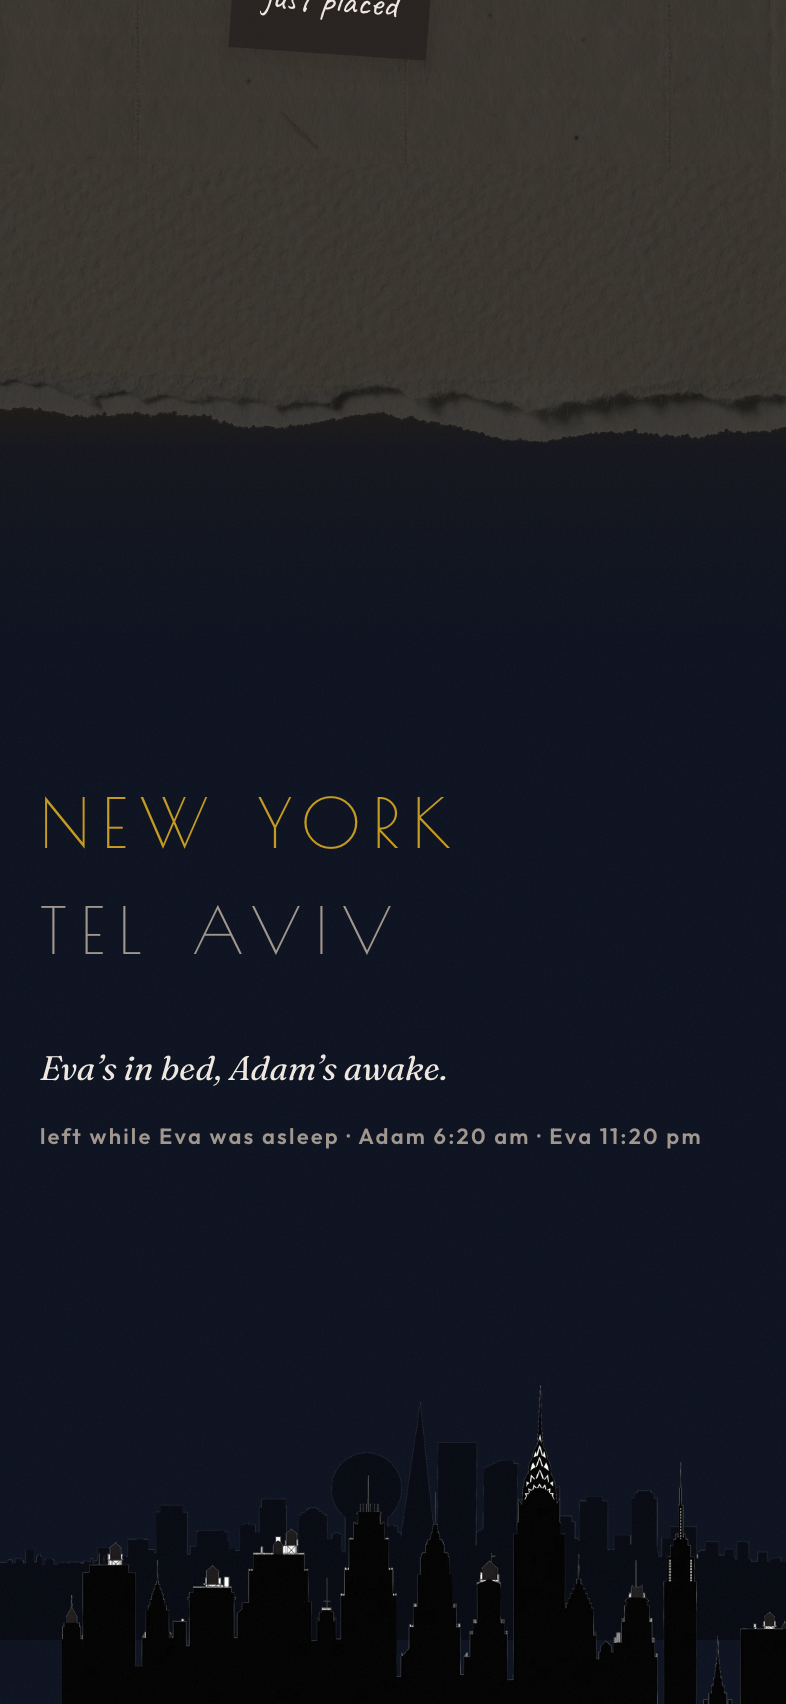
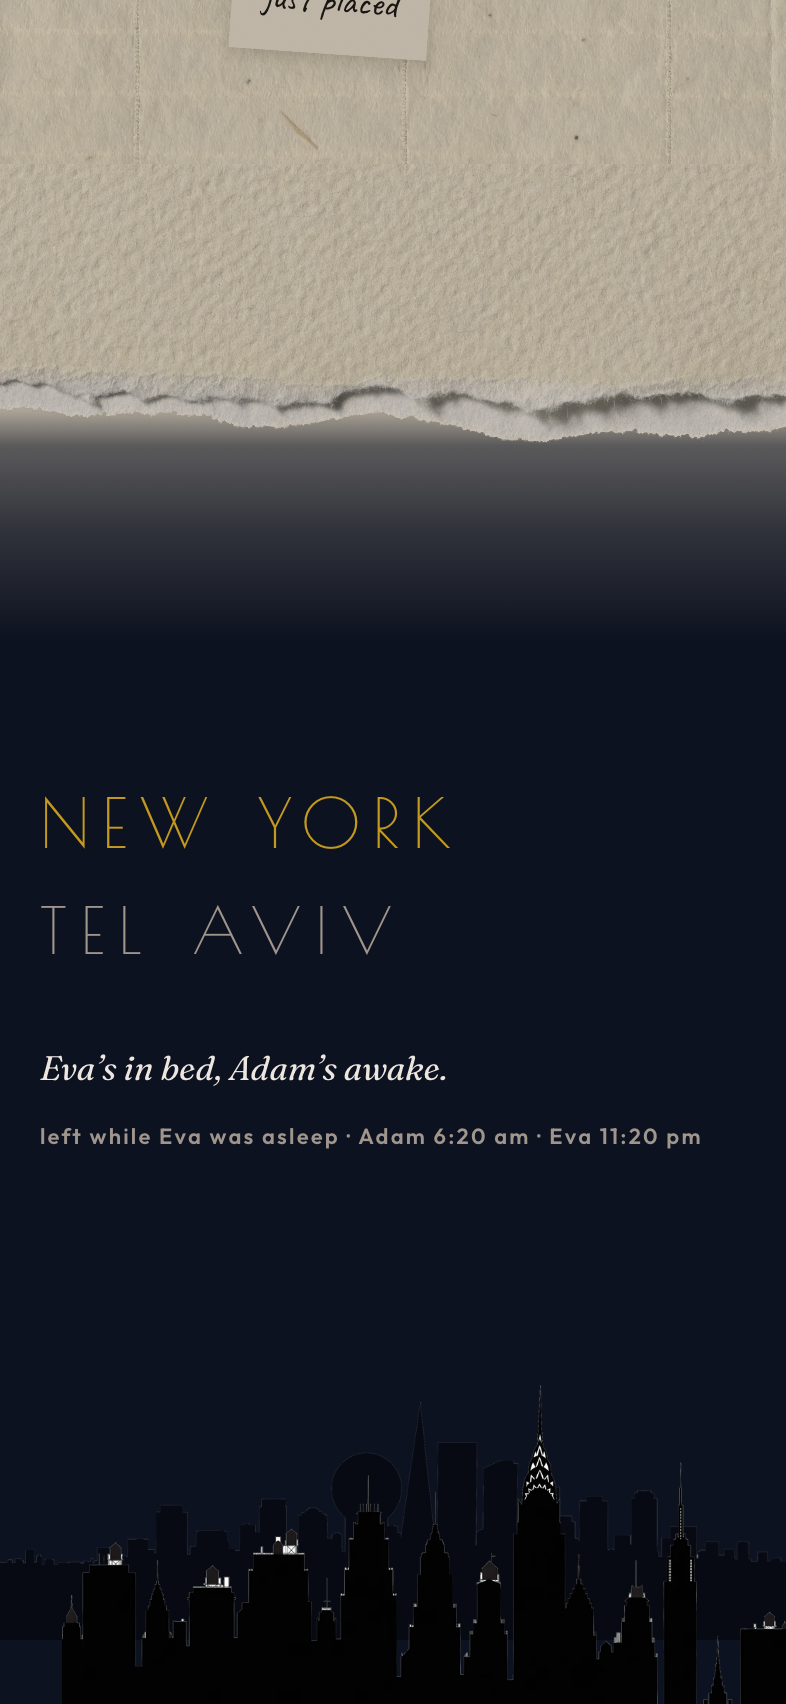
fix(tokens): night dims the paper — it no longer inverts it
D1, enforced: PAPER stays paper in both modes; only DECO carries the
dark palette. The night blocks now dim the day scale warmly (~x0.73)
with every relationship preserved — surface stays lighter than
canvas, the well stays recessed, --ink stays dark ink on lit paper.
A note at night is a dimmer white note, not a dark plate with light
text: the note and the table were obeying two different physics.

Most of the old night block is deleted rather than retuned, because
it existed to manage the inversion: lightened authorship inks, the
dimmed pill fill, black-weighted shadows, screen-blended grain, the
tile-ink and selection night doubles. Paper that stays paper
inherits :root.

.under-lamp follows to x0.73 (from 0.78) so tokens and image
materials sit under one lamp — the 0.78 was right against the old
dark baseline; the principle (one dim for the whole table) fixes
the value, not the number. The AA floor with dark ink is what
bounds the dim: ink ~8.5:1 on night surface, --mute held at 4.6:1,
--danger 4.5:1. themeColor dark follows the new night canvas.

Measured from the re-captured canonical frames:
  sanity: note 182.4 / table 172.6 — notes are the lightest thing
  on the table again (was: notes darker, inverted)
  join:   day step 0.6, sd delta 1.52 · night step 0.5, sd delta 1.17

Known consequence, deliberate: every existing surface changes its
night appearance (dock, login, echo were built against the dark
tokens). That is D1 doing what it says; their waves re-verify.

diff --git a/apps/web/app/globals.css b/apps/web/app/globals.css
@@ -234,116 +234,66 @@
 }
 
 /* ------------------------------------------------------------
-   2 · Night — the same paper, unlit.
+   2 · Night — the lamp is low, the paper is still paper.
 
-   Night is not a theme toggle and not an inverted day. w1 in
-   `library.json` — "She's in bed, he's awake", IL 05:00–09:00 /
-   NYC 22:00–02:00 — is the biggest overlap window in their week,
-   and Eva spends it in bed with the lights off. This is the
-   highest-traffic surface in the product.
+   REWRITTEN under the revised §1 and the 2026-08-04 lamp ruling.
+   The previous night was an inversion — dark canvas, dark
+   plates, light ink: "night meant dark-everything," and D1
+   killed that. PAPER stays paper in both modes; only DECO
+   sections carry the dark palette. Dark mode is the lamp going
+   low over the same table, and a white note under a dim lamp is
+   a dimmer white note — still the lightest thing on the table
+   after a photograph. It never becomes a dark plate with light
+   text: that is the note *inverting* while the paper around it
+   *dims*, two different physics on one surface, and it is
+   exactly the defect the first night capture showed.
 
-   That single fact sets every value below:
+   So the night PAPER scale is the day scale multiplied down
+   warmly (~×0.73 — the same single dim the .under-lamp material
+   curve uses), with every relationship preserved: the surface
+   stays lighter than the canvas, the well stays recessed, and
+   --ink stays dark ink on lit paper. Most of the old night
+   block is deleted rather than retuned, because it existed to
+   manage the inversion — lightened authorship inks, a dimmed
+   pill, black-weighted shadows, screen-blended grain. Paper
+   that stays paper inherits its :root values.
 
-   Warm, because the screen is the only light source in a dark
-   bedroom. #1E1A17 is hue 26° — the day canvas taken down to
-   11.8% value, not swapped for a different material. v6's
-   #140E1E was plum, which is a colour choice pretending to be a
-   dark mode.
-
-   Not black, because a true black page makes every white plate
-   on it a lightbulb. #1E1A17 keeps plates and page in the same
-   family so the contrast between them stays a paper contrast.
-
-   Wells go *darker* than the surface at night, inverting the day
-   relationship. Light comes from above; at night a recess is in
-   shadow rather than in light. It is a small thing and it is the
-   difference between a dark mode that was designed and one that
-   was generated.
-
-   And photographs are still never dimmed — so at 11pm the
-   brightest thing on Eva's screen is Adam's face. That is the
-   correct hierarchy for this window and it costs nothing to get
-   right; it only required not writing `--photo-dim`.
+   The floor on how far this dims is WCAG AA with dark ink:
+   ink carries ~8.5:1 on the night surface and --mute is held at
+   ≥4.5:1. Darker than this and text fails before atmosphere is
+   gained — the true dark of night belongs to the DECO window,
+   which is precisely what makes it read as a window. And
+   photographs are still never dimmed: at 11pm the brightest
+   thing on Eva's screen is Adam's face.
    ------------------------------------------------------------ */
 
 [data-mode="night"] {
-  --canvas: #1e1a17;
-  --surface: #272220;
-  --surface-2: #171412;
+  --canvas: #bab1a2; /* the day canvas × ~0.73, warmed */
+  --surface: #bfb6a8; /* a white note under the low lamp — still lighter than the canvas */
+  --surface-2: #b2a999; /* the recess, dimmer than both */
 
-  --ink: #ede7e0; /* 14.08:1 on canvas — warm off-white, not #fff */
-  --mute: #a0968d; /* 5.96:1 on canvas, 5.42:1 on surface */
-  --line: rgba(237, 231, 224, 0.11);
-  --on-ink: #1e1a17;
+  --mute: #48423a; /* 4.6:1 on surface — the AA floor sets this */
+  --line: rgba(37, 29, 22, 0.16);
+  --danger: #7e211d; /* 4.5:1 on the dimmed canvas */
+  --shimmer: rgba(255, 255, 255, 0.5);
 
-  /* Night is where the solid control stops being `--ink`.
-     `pill-ink` inverting to the full #EDE7E0 put the dock's send
-     button and active tab — a continuous ~150px band — at 14:1
-     against the page, on every authenticated surface, in the window
-     §2 calls the highest-traffic in the product. The brightest thing
-     on Eva's screen at 11pm was a navigation button, which is the
-     exact inversion of the hierarchy this file argues for two
-     sections earlier: the brightest thing should be Adam's face.
-
-     `tile-ink` already established this for a 140px block. Two
-     50px controls sitting next to each other are the same problem
-     wearing a different shape, so the fill comes down rather than
-     the rule being scoped by size. #C9BFB6 still carries 9.55:1
-     against its own text and reads unmistakably as the one solid
-     control — it just stops being a light source. */
-  --pill-fill: #c9bfb6;
-
-  /* The same two inks, lifted to stay legible at 2px on a dark
-     page. Hue is held exactly — 218° and 15°, unchanged — so a
-     person's mark is the same mark in both modes. Saturation
-     falls (24.6% / 32.6%) because a hue at night reads more
-     saturated than the same hue by day. Luminance parity holds:
-     0.337 and 0.325. */
-  --eva: #8d9ebb;
-  --adam: #be9080;
-
-  --danger: #ea9189; /* 7.33:1 on canvas */
-
-  --shimmer: rgba(237, 231, 224, 0.08);
-
-  --e1: 0 1px 1px rgba(0, 0, 0, 0.28), 0 3px 8px -2px rgba(0, 0, 0, 0.32);
-  --e2: 0 1px 2px rgba(0, 0, 0, 0.34), 0 10px 24px -8px rgba(0, 0, 0, 0.46);
-  --e3: 0 2px 4px rgba(0, 0, 0, 0.38), 0 24px 48px -16px rgba(0, 0, 0, 0.56);
-
-  /* Night needs it harder: the dock's surface is only 3% lighter
-     than the canvas behind it, so value alone cannot separate them
-     and the shadow is doing all of the work. */
-  --e-float: 0 1px 2px rgba(0, 0, 0, 0.44),
-    0 8px 16px -4px rgba(0, 0, 0, 0.52), 0 20px 40px -8px rgba(0, 0, 0, 0.62);
-
-  --noise-opacity: 0.028;
-
-  /* The lamp goes off — image materials dim via .under-lamp. */
+  /* The lamp goes low — image materials dim via .under-lamp by
+     the same fraction as the tokens above. Everything absent from
+     this block (--ink, the authorship inks, the pill, shadows,
+     grain) inherits :root, because paper that stays paper needs
+     no night double. */
   --lamp-dim: 1;
 }
 
 @media (prefers-color-scheme: dark) {
   :root:not([data-mode]) {
-    --canvas: #1e1a17;
-    --surface: #272220;
-    --surface-2: #171412;
-    --ink: #ede7e0;
-    --mute: #a0968d;
-    --line: rgba(237, 231, 224, 0.11);
-    --on-ink: #1e1a17;
-    --pill-fill: #c9bfb6;
-    --eva: #8d9ebb;
-    --adam: #be9080;
-    --danger: #ea9189;
-    --shimmer: rgba(237, 231, 224, 0.08);
-    --e1: 0 1px 1px rgba(0, 0, 0, 0.28), 0 3px 8px -2px rgba(0, 0, 0, 0.32);
-    --e2: 0 1px 2px rgba(0, 0, 0, 0.34), 0 10px 24px -8px rgba(0, 0, 0, 0.46);
-    --e3: 0 2px 4px rgba(0, 0, 0, 0.38), 0 24px 48px -16px rgba(0, 0, 0, 0.56);
-    --e-float: 0 1px 2px rgba(0, 0, 0, 0.44),
-      0 8px 16px -4px rgba(0, 0, 0, 0.52), 0 20px 40px -8px rgba(0, 0, 0, 0.62);
-    --noise-opacity: 0.028;
-
-    /* The lamp goes off — image materials dim via .under-lamp. */
+    --canvas: #bab1a2;
+    --surface: #bfb6a8;
+    --surface-2: #b2a999;
+    --mute: #48423a;
+    --line: rgba(37, 29, 22, 0.16);
+    --danger: #7e211d;
+    --shimmer: rgba(255, 255, 255, 0.5);
     --lamp-dim: 1;
   }
 }
@@ -446,11 +396,10 @@ body {
     color var(--dur-3) var(--ease-io);
 }
 
+/* One selection for both modes: night paper is still light paper,
+   so the dark-ink wash works everywhere. */
 ::selection {
   background: rgba(37, 29, 22, 0.12);
-}
-[data-mode="night"] ::selection {
-  background: rgba(237, 231, 224, 0.18);
 }
 
 /* With no accent colour in the system, the focus ring is ink.
@@ -703,13 +652,16 @@ textarea[aria-invalid="true"] {
    already dim through the night token swap, and .under-lamp on
    top would dim them twice. */
 @utility under-lamp {
-  /* 0.78, not the 0.87 that would match the night canvas token
-     exactly: full token parity is "lights off" and the law's night
-     is a reading room — the lamp is low, not out. The materials sit
-     a step lighter than the page canvas, which is what a lit table
-     in a dark room does. */
-  filter: brightness(calc(1 - var(--lamp-dim) * 0.78))
-    sepia(calc(var(--lamp-dim) * 0.32));
+  /* ×0.73 — the same fraction the night PAPER tokens dim by
+     (§2), so the image substrate, the seam strip and the token
+     surfaces all sit under one lamp. The history of this number:
+     0.87 (token parity with the old inverted night) was
+     lights-off; 0.78 was right against that dark baseline; under
+     D1's dim-not-invert tokens the one-dim-for-the-whole-table
+     principle lands here. If night depth changes, change §2 and
+     this together — they are the same lamp. */
+  filter: brightness(calc(1 - var(--lamp-dim) * 0.27))
+    sepia(calc(var(--lamp-dim) * 0.22));
   transition: filter var(--dur-3) var(--ease-io);
 }
 
@@ -995,24 +947,12 @@ textarea[aria-invalid="true"] {
    The grain stays, at 2.2%. It earns its place by being the only
    thing that makes a flat colour read as a material: paper is
    warm because of what it is made of, and this is the cheapest
-   honest way to say so. Multiply by day, because grain in paper
-   absorbs light; screen at night, because in a dark room the
-   grain is the light the page is scattering rather than eating.
-   ------------------------------------------------------------ */
-/* The night half of `tile-ink` — see §7. Declared here rather than
-   inside the utility because it needs the mode selector's specificity. */
-[data-mode="night"] .tile-ink {
-  background: var(--surface);
-  color: var(--ink);
-  border-color: var(--line);
-}
-@media (prefers-color-scheme: dark) {
-  :root:not([data-mode]) .tile-ink {
-    background: var(--surface);
-    color: var(--ink);
-    border-color: var(--line);
-  }
-}
+   honest way to say so. Multiply in both modes — night paper is
+   still lit paper (§2), and grain in paper absorbs light. The
+   screen-blend night variant left with the inversion it served;
+   so did the tile-ink night double, which existed so a solid ink
+   block would not become a lamp on a dark page. On dimmed light
+   paper, solid ink is simply solid ink. */
 
 .noise-layer {
   position: fixed;
@@ -1021,12 +961,4 @@ textarea[aria-invalid="true"] {
   z-index: 40;
   opacity: var(--noise-opacity);
   mix-blend-mode: multiply;
-}
-[data-mode="night"] .noise-layer {
-  mix-blend-mode: screen;
-}
-@media (prefers-color-scheme: dark) {
-  :root:not([data-mode]) .noise-layer {
-    mix-blend-mode: screen;
-  }
 }

diff --git a/apps/web/components/materials/Pinned.tsx b/apps/web/components/materials/Pinned.tsx
@@ -88,7 +88,7 @@ export function Pinned({ variant, placement, children, className }: PinnedProps)
                would override the class, so the lamp rides along here.
                Keep in sync with @utility under-lamp in globals.css. */
             filter:
-              "drop-shadow(0 2px 2px rgba(41, 32, 24, 0.3)) brightness(calc(1 - var(--lamp-dim, 0) * 0.78)) sepia(calc(var(--lamp-dim, 0) * 0.32))",
+              "drop-shadow(0 2px 2px rgba(41, 32, 24, 0.3)) brightness(calc(1 - var(--lamp-dim, 0) * 0.27)) sepia(calc(var(--lamp-dim, 0) * 0.22))",
             transition: "filter var(--dur-3) var(--ease-io)",
             ...PIN_X[placement],
           }}

diff --git a/apps/web/app/layout.tsx b/apps/web/app/layout.tsx
@@ -25,7 +25,8 @@ export const viewport: Viewport = {
   viewportFit: "cover",
   themeColor: [
     { media: "(prefers-color-scheme: light)", color: "#F8F5F1" },
-    { media: "(prefers-color-scheme: dark)", color: "#1E1A17" },
+    /* Night canvas per D1: the paper dims, it does not invert. */
+    { media: "(prefers-color-scheme: dark)", color: "#BAB1A2" },
   ],
 };
 
